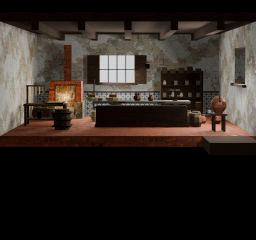
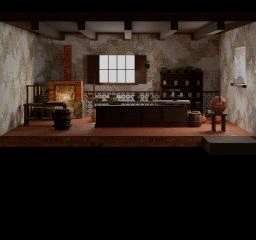
St. Maria: the world fill was leaking through the walls
"Still too bright" and "not enough ambient occlusion" turned out to be one
defect, not two.

scene.eevee.use_raytracing defaults to False and nothing here had ever set it,
so EEVEE was rendering these interiors with NO occlusion term at all: a uniform
world fill lighting the inside of a sealed room as though the walls were not
there. Rendering the Padaria at --ambient 0.13 and again at 0.0 measures it --

  EEVEE, no raytracing:  median 64.4 -> 39.7   fill's share 38%
  Cycles:                median 76.9 -> 74.4   fill's share 3.4%

3.4% is what a sealed box should do. The other 34 points were light that could
not physically have got in, spread perfectly evenly over every surface, which
is the recipe for a room where nothing sits ON anything -- no contact shadow
under the counter, no darkening where a beam meets a wall. And it explains why
lowering --ambient never fixed the flatness: it scales the inside of a corner
and the wall beside it by the same factor.

The engine comparison, all at --ambient 0.13 on the Padaria:

  EEVEE no RT (shipped)      median 64.4  top2% 205.2  11s
  EEVEE + fast GI            median 64.5  top2% 204.0  11s
  EEVEE + AO-only fast GI    median 54.8  top2% 203.7  11s
  Cycles 32spp + OIDN        median 76.9  top2% 208.6  21s

Fast GI in its default GLOBAL_ILLUMINATION mode changes 71% of the frame and
leaves the median within 0.1 of where it started: every crevice it darkens it
[…]

Changed region(s): [[0.0, 0.0875, 1.0, 0.5833], [0.6875, 0.0875, 0.8125, 0.175]]

diff --git a/tools/blender/stage_room_model.py b/tools/blender/stage_room_model.py
@@ -306,6 +306,83 @@ def base_lighting(strength: float, background=(0.0, 0.0, 0.0),
     bpy.context.scene.world = world
 
 
+def scale_lamp_energy(scene, factor: float) -> dict:
+    """Dim every authored lamp by a common factor, at render time only.
+
+    Render time and not in the .blend: the source document is authority and
+    staging never saves it. Scaling here keeps the recipe's numbers as the
+    authored record and makes the exposure a property of the plate, which is
+    the thing being tuned.
+    """
+    touched = {}
+    for obj in scene.objects:
+        if obj.type != "LIGHT":
+            continue
+        light = obj.data
+        light.energy = light.energy * float(factor)
+        touched[obj.name] = round(light.energy, 4)
+    return {"factor": factor, "lights": touched}
+
+
+def configure_render_quality(scene, args) -> dict:
+    """Turn on the occlusion term, and make Cycles cheap enough to compare.
+
+    These rooms are deliberately KEYLESS -- the design vocabulary forbids a
+    hard raking key, so every hard shadow has to come from a lamp the room
+    itself contains. That puts almost all of the general illumination in the
+    world fill, which is perfectly uniform. Without an occlusion term a
+    uniform fill lights the inside of a corner exactly as brightly as the
+    wall beside it, so nothing reads as sitting ON anything: no contact
+    shadow under the counter, no darkening where the beams meet the wall.
+
+    Lowering the fill cannot fix that. It scales the corner and the wall
+    together and the room just gets dimmer while staying equally flat, which
+    is why "still too bright" and "not enough ambient occlusion" are one
+    problem and not two.
+    """
+    record = {"engine": scene.render.engine}
+    if scene.render.engine == "CYCLES":
+        cycles = scene.cycles
+        cycles.samples = max(1, args.samples)
+        cycles.use_adaptive_sampling = True
+        cycles.use_denoising = True
+        cycles.denoiser = "OPENIMAGEDENOISE"
+        # ACCURATE prefilter with albedo+normal guides: at 32 samples the
+        # noise is heavy, and the guide passes are what let the denoiser
+        # keep an edge it would otherwise smear.
+        cycles.denoising_prefilter = "ACCURATE"
+        cycles.denoising_input_passes = "RGB_ALBEDO_NORMAL"
+        record.update(samples=cycles.samples, denoiser=cycles.denoiser)
+        return record
+
+    eevee = getattr(scene, "eevee", None)
+    if eevee is None or not hasattr(eevee, "use_raytracing"):
+        return record
+    eevee.use_raytracing = bool(args.raytracing)
+    if args.raytracing:
+        eevee.use_fast_gi = True
+        # AMBIENT_OCCLUSION_ONLY, not the GLOBAL_ILLUMINATION default.
+        # Measured: GI mode changes 71% of the frame but leaves the mean
+        # where it was, because every crevice it darkens it also fills back
+        # in with bounce. That is physically the better answer and the wrong
+        # one here -- what these rooms are short of is the occlusion term
+        # itself, and bouncing a uniform fill around a closed box mostly
+        # reconstructs the uniform fill.
+        eevee.fast_gi_method = "AMBIENT_OCCLUSION_ONLY"
+        eevee.fast_gi_distance = float(args.ao_distance)
+        eevee.fast_gi_quality = 0.5
+        # More rays and steps than the default 2/8. This is a 256px still,
+        # rendered once, so the cost is irrelevant and undersampled GI shows
+        # up as banding across a flat plaster wall -- the largest surface in
+        # every one of these frames.
+        eevee.fast_gi_ray_count = 4
+        eevee.fast_gi_step_count = 16
+    record.update(raytracing=eevee.use_raytracing,
+                  aoMethod=eevee.fast_gi_method if args.raytracing else None,
+                  aoDistance=eevee.fast_gi_distance if args.raytracing else None)
+    return record
+
+
 def box_downsample(path, width: int, height: int, factor: int) -> None:
     """Average each NxN block of the supersampled render down to one pixel.
 
@@ -572,7 +649,54 @@ def main() -> None:
     parser.add_argument("--no-materials", dest="materials", action="store_false",
                         help="skip material-library rebinding and keep raw MTL")
     parser.add_argument("--engine", choices=("eevee", "workbench", "cycles"),
-                        default="eevee")
+                        default="cycles",
+                        help="Cycles by default, and the reason is not "
+                             "fidelity for its own sake. These rooms are "
+                             "sealed boxes, so the world fill should barely "
+                             "reach inside: Cycles puts its share of the "
+                             "Padaria at 3%. EEVEE without raytracing put it "
+                             "at 38%, lighting every surface as though the "
+                             "walls were not there, and that leak is what "
+                             "made these interiors read flat and overbright. "
+                             "At 32 samples with OIDN a 256px plate costs "
+                             "about 21s against EEVEE's 11s")
+    parser.add_argument("--raytracing", action=argparse.BooleanOptionalAction,
+                        default=True,
+                        help="EEVEE screen-space raytracing, which is where "
+                             "its ambient occlusion comes from. Blender defaults "
+                             "this OFF, and every St. Maria plate before "
+                             "27.08 was rendered without it: a keyless room lit "
+                             "almost entirely by uniform world fill, with no "
+                             "occlusion term at all. Nothing sat ON anything, "
+                             "because nothing cast a contact shadow")
+    parser.add_argument("--ao-distance", type=float, default=1.5,
+                        metavar="M",
+                        help="how far the fast-GI trace looks for occluders. "
+                             "Blender defaults to 0.0, meaning unlimited, which "
+                             "in a closed room makes the whole interior occlude "
+                             "itself evenly -- a global dimming rather than "
+                             "the crevice darkening that reads as contact. A "
+                             "figure near the room's own scale keeps it local")
+    parser.add_argument("--lamp-scale", type=float, default=0.5,
+                        metavar="K",
+                        help="multiply every authored lamp's energy by K. "
+                             "Under Cycles the world fill is correctly "
+                             "occluded by the room's own walls and "
+                             "contributes about 3% of the interior, so "
+                             "--ambient stops being a brightness control and "
+                             "this becomes the one that works. Uniform on "
+                             "purpose: it dims the room without relighting "
+                             "it, so the balance the recipe authored between "
+                             "oven, window and doorway survives. NOT 1.0 by"
+                             " default: the recipes' energies were authored"
+                             " against EEVEE's leaking fill, so once the"
+                             " leak is gone they read hot. The recipe keeps"
+                             " the authored record and this is the plate's"
+                             " exposure")
+    parser.add_argument("--samples", type=int, default=32,
+                        help="Cycles sample count. Low on purpose: the "
+                             "denoiser below is doing the heavy lifting, and "
+                             "the output is a 256px plate")
     parser.add_argument("--out", type=Path, default=None, help="save a .blend")
     parser.add_argument("--render", type=Path, default=None, help="render a 426x240 PNG")
     parser.add_argument("--tolerance", type=float, default=0.5,
@@ -717,6 +841,9 @@ def main() -> None:
                                else "BLENDER_WORKBENCH" if args.engine == "workbench"
                                else "CYCLES")
         scene.render.film_transparent = False
+        report["renderQuality"] = configure_render_quality(scene, args)
+        if args.lamp_scale != 1.0:
+            report["lampScale"] = scale_lamp_energy(scene, args.lamp_scale)
         # Supersample: render N times the target and area-average back down.
         # EEVEE's own antialiasing resolves a 256px frame poorly on thin
         # geometry -- a grille bar or a chair leg lands on a fraction of a

diff --git a/tools/blender/export_room_environment.py b/tools/blender/export_room_environment.py
@@ -205,6 +205,8 @@ def main() -> None:
     parser.add_argument("--decimate", type=float, default=1.0)
     parser.add_argument("--ambient", type=float, default=0.13,
                         help="world fill strength for the bake; must match the plate render or the two presentations are lit differently")
+    parser.add_argument("--lamp-scale", type=float, default=0.5,
+                        help="must match the plate render or the two presentations are exposed differently")
     parser.add_argument("--span", type=float, default=7.7667)
     parser.add_argument("--ceiling", type=float, default=3.9)
     parser.add_argument("--exit-y", type=float, required=True,
@@ -230,6 +232,8 @@ def main() -> None:
     # by the authored lamps alone and comes out a cave. Same call, same
     # numbers, so the baked atlas and the plate see the same room.
     stager.base_lighting(args.ambient, (0.0, 0.0, 0.0), stager.INTERIOR_FILL)
+    if args.lamp_scale != 1.0:
+        stager.scale_lamp_energy(bpy.context.scene, args.lamp_scale)
 
     output = args.output.resolve()
     pipeline.run_pipeline_in_blender(args.blend.resolve(), output,

diff --git a/docs/reports/st-maria-shops-walkable-2026-08-27.md b/docs/reports/st-maria-shops-walkable-2026-08-27.md
@@ -300,6 +300,81 @@ Worth naming as a known gap: the engine runs `quantizeWithDither` in
 shader entirely. `ps1_filter` is a good-faith reproduction of the same idea,
 not the same code. The two dithers are not guaranteed to agree.
 
+## The world fill was leaking through the walls
+
+Cutting `--ambient` to 0.13 helped and did not finish the job: the rooms were
+still too bright, and flat -- nothing had a contact shadow. Those turned out
+to be the same defect.
+
+`scene.eevee.use_raytracing` defaults to **False**, and nothing here had ever
+set it. EEVEE was rendering these interiors with **no occlusion term at all**,
+so the uniform world fill lit the inside of a sealed room as though the walls
+were not there. Rendering the Padaria at `--ambient 0.13` and again at `0.0`
+measures the leak directly:
+
+| Renderer | median at 0.13 | at 0.0 | the fill's share |
+|---|---|---|---|
+| EEVEE, no raytracing | 64.4 | 39.7 | **38%** |
+| Cycles | 76.9 | 74.4 | **3.4%** |
+
+Cycles occludes the fill properly and puts its contribution at 3.4%, which is
+what a sealed box should do. The 38% was light that could not physically have
+got in, spread perfectly evenly over every surface -- which is exactly the
+recipe for a room where nothing sits ON anything.
+
+That also explains why lowering `--ambient` never fixed the flatness. It
+scales the inside of a corner and the wall beside it by the same factor, so
+the room dims and stays equally flat. **"Still too bright" and "not enough
+ambient occlusion" were one problem.**
+
+### What the three renderers actually give
+
+All at `--ambient 0.13`, on the Padaria, measured over the world strip:
+
+| | median | top 2% | cost |
+|---|---|---|---|
+| EEVEE, no raytracing (shipped) | 64.4 | 205.2 | 11s |
+| EEVEE + fast GI | 64.5 | 204.0 | 11s |
+| EEVEE + AO-only fast GI | 54.8 | 203.7 | 11s |
+| Cycles 32spp + OIDN | 76.9 | 208.6 | 21s |
+
+Two things in that table are worth reading carefully.
+
+**Fast GI in its default GLOBAL_ILLUMINATION mode does nothing to the mean.**
+It changes 71% of the frame (max delta 78/255) and lands the median within 0.1
+of where it started, because every crevice it darkens it fills back in with
+bounce. Switching it to `AMBIENT_OCCLUSION_ONLY` drops the median 15% while
+costing the practicals 0.7% -- the right shape. Physically GI mode is the
+better answer; here it mostly reconstructs the uniform fill it is bouncing.
+
+**Cycles measures BRIGHTER and looks darker.** Its median is the highest of
+the four, because with the leak gone the light that remains is real bounce
+from the lamps and it has structure. A 7x crop of the counter front is
+unambiguous: only Cycles has a contact shadow where the counter meets the
+floor, and only Cycles resolves the panel divisions on its front. This is a
+case where the aggregate statistic and the picture disagree and the picture is
+right.
+
+Cycles is now the stager default. It is also the integrator the 3D bake
+already used, so the two presentations of a room now agree by construction
+rather than by coincidence.
+
+### Exposure moved to `--lamp-scale`
+
+With the fill down to 3%, `--ambient` is no longer a brightness control.
+`--lamp-scale` multiplies every authored lamp uniformly, dimming the room
+without relighting it, so the balance the recipe struck between oven, window
+and doorway survives. It defaults to 0.5: the recipes were authored against
+the leaking fill and read hot once it is gone. Applied at render time only --
+the `.blend` is source authority and staging never saves it, so the recipe
+keeps the authored record and the factor is a property of the plate.
+
+Padaria across the scale, at Cycles: median 75.3 / 62.0 / 51.2 / 41.8 for
+x1.0 / 0.7 / 0.5 / 0.35, against a top 2% that moves 208.5 -> 205.2 in total.
+
+**0.5 is an art decision, and it is the one judgement call in this change.**
+It is one flag from 0.35 if the rooms should go further.
+
 ## Open
 
 - The Market Row plate does not draw the Padaria's door. The doorway exists in

diff --git a/docs/design/st-maria-interior-authoring.md b/docs/design/st-maria-interior-authoring.md
@@ -517,15 +517,55 @@ blender --background --factory-startup --python tools/blender/recipes/<map>.py -
 Render it against the real camera with a Walker in shot:
 
 ```bash
-blender --background --python tools/blender/stage_room_model.py -- --model projects/hichaukitoden-game/assets/authoring/environments/<map>.blend --ambient 0.13 --render out/<map>.png
+blender --background --python tools/blender/stage_room_model.py -- --model projects/hichaukitoden-game/assets/authoring/environments/<map>.blend --ambient 0.13 --no-walker --render out/<map>.png
 ```
 
-**`--ambient` is the single most consequential number here, and low is
-right.** The fill is the largest light in any of these rooms, so raising it
-flattens every authored lamp into the wall behind it: the oven stops being a
-light and becomes an orange rectangle. Cutting it costs the practicals almost
-nothing and buys the room its contrast -- from 0.55 to 0.08 the Padaria's
-median brightness falls 48% while its oven mouth loses 3%.
+### The renderer is Cycles, and that is a lighting decision
+
+These rooms are **sealed boxes**, so the world fill should barely reach
+inside. Measured on the Padaria by rendering at `--ambient 0.13` and again
+at `0.0`:
+
+| Renderer | median at 0.13 | at 0.0 | fill's share |
+|---|---|---|---|
+| EEVEE, no raytracing | 64.4 | 39.7 | **38%** |
+| Cycles | 76.9 | 74.4 | **3.4%** |
+
+**EEVEE renders these interiors with no occlusion term unless
+`use_raytracing` is on, and Blender defaults it OFF.** With no occlusion a
+uniform world fill lights the inside of a closed room as though the walls
+were not there: 38% of the Padaria was light that should never have got in.
+That is why the early plates read flat and overbright, and why nothing
+looked like it was sitting ON anything -- no contact shadow under a counter,
+no darkening where a beam meets a wall.
+
+Lowering `--ambient` could not fix it. It scales the corner and the wall
+together, so the room gets dimmer while staying equally flat. **"Too bright"
+and "not enough ambient occlusion" were one problem, not two.**
+
+Cycles at `--samples 32` with OpenImageDenoise costs about 21s against
+EEVEE's 11s for a 256px plate, which is nothing, and it is the same
+integrator the 3D bake already used -- so the two presentations of a room
+now agree by construction. `--engine eevee --raytracing` is available and
+gets most of the way there (`AMBIENT_OCCLUSION_ONLY` fast GI drops the
+median 15% while costing the practicals 0.7%), but it still has no real
+contact shadow.
+
+### Exposure is `--lamp-scale`, not `--ambient`
+
+Once the leak is gone `--ambient` is a 3% control and stops being useful for
+brightness. `--lamp-scale` multiplies every authored lamp uniformly, so the
+room dims without being relit and the balance the recipe struck between
+oven, window and doorway survives. It defaults to **0.5**, because the
+recipes' energies were authored against the leaking fill and read hot once
+it is gone. The recipe keeps the authored record; this is the plate's
+exposure.
+
+**Keep `--ambient` low anyway.** Under EEVEE it is the difference between a
+room and a flat, and under Cycles it is the small amount of light that
+genuinely reaches in through the openings. Measured under EEVEE, 0.55 to 0.08
+drops the Padaria's median 48% while its oven mouth loses 3% -- which is the
+shape any exposure control here should have, and the shape fog does not have.
 
 Do not reach for engine fog to get the same mood. Fog is a uniform multiply
 toward black, so it dims the window and the fire by exactly as much as the
